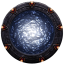
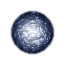
portal

diff --git a/b612/2021/index.html b/b612/2021/index.html
@@ -70,6 +70,7 @@
 <script src="GoPlanet.js"> </script>
 <script src="GoActor.js"> </script>
 <script src="GoLatern.js"> </script>
+<script src="GoPortal.js"> </script>
 <script src="Game.js"></script>
 <script src="NavMap.js"></script>
 <script src="GameObjectController.js"></script>
@@ -110,12 +111,14 @@ let time_multiplier = 1.0;
 
 var cam_back = new Camera(0);
 var cam_front = new Camera(0);
+var cam_player = new Camera(0.5);
+var camera = cam_front;
 var game = new Game();
 Game.currentGame = game;
 let cnt_frame = 0;
 
 let rose = undefined, retro = undefined;
-let prince, fox, sheep, box, scarf, bush, star, latern, frost;
+let prince, fox, sheep, box, scarf, bush, portal, star, latern, frost;
 
 /////////////////////////////////////////////////////////////////////////////////////////////////////////////////////////////////
 
@@ -315,7 +318,7 @@ function render(){
 
         //camera.opacity = 1.;
         if (player!==undefined){
-            let cam_target = getPlanet(player);
+            let cam_target = getTruePlanet(player);
             if (player.behaviour instanceof BeaJump){
                 cam_target = player;
             }
@@ -325,7 +328,7 @@ function render(){
         renderContext.camera = cam_back;
         GameObject.RenderAll(game.objects.background);
                 
-        renderContext.camera = cam_front;
+        renderContext.camera = camera;
         GameObject.RenderAll(game.objects.solid);        
 
         renderContext.EndScene();
@@ -389,12 +392,13 @@ function physics(dt){
         {
             let cam_target = player;
             if (player.behaviour instanceof BeaStand){
-                cam_target = player.behaviour.planet;
+                cam_target = getTruePlanet(player);
             }    
             if (player.behaviour instanceof BeaJump){
                 cam_target = player.behaviour.p2 || player.behaviour.p1;
             }    
-            //camera.setTarget(cam_target);
+            cam_player.setTarget(cam_target);
+            cam_player.Update();            
             cam_front.Update();
             cam_back.Update();
         }
@@ -573,6 +577,11 @@ function make_demo(){
     bush = new GoActor("bush");
     game.objects.solid.push(bush);
     bush.spawnAtPlanet(planets[planets.length-3],MathEx.randomAngle());
+
+    portal = new GoPortal();
+    game.objects.solid.push(portal);
+    portal.spawnAtPlanet(planets[0],0);
+    portal.effect = new EfBlink();
     
     // create actors
     prince = new GoActor("prince");    
@@ -649,9 +658,23 @@ function make_demo(){
     });
 
     player.addHandler(GameEvent.TOUCHDOWN, function(){
-        let rosePlanet = getTruePlanet(rose)
+        let rosePlanet = getTruePlanet(rose);        
         if (rosePlanet!==undefined && rosePlanet === getTruePlanet(player)){
             rose.jump();
+        }
+
+        let portalPlanet = getTruePlanet(portal);
+        if (portalPlanet!==undefined && portalPlanet === getTruePlanet(player)){
+            camera = cam_player;
+            console.log('camera on player');
+        }
+    });
+
+    player.addHandler(GameEvent.JUMP, function(){
+        let portalPlanet = getTruePlanet(portal);
+        if (portalPlanet!==undefined && portalPlanet === getTruePlanet(player)){
+            camera = cam_front;
+            console.log('camera on front');
         }
     });
 
@@ -685,7 +708,7 @@ function make_intro(){
     staratlas['prince'] = astar;
     atlas_name = "prince";
 
-    let portal = new GoActor("portal");
+    let portal = new GoPortal();
     game.objects.solid.push(portal);
     portal.spawnAtPlanet(p2,0);
     portal.effect = new EfBlink();

diff --git a/b612/2021/RendererWebGL.js b/b612/2021/RendererWebGL.js
@@ -295,12 +295,13 @@ class RendererWebGL {
         gl.enable(gl.BLEND)
         gl.useProgram(prog.prog);
 
-        const [camx,camy] = [this.camera.ox * pos._z, this.camera.oy * pos._z];
-        const [px,py] = [pos.x + camx, pos.y + camy];        
-        gl.uniform2f(prog.pos, px*this.cfx-1., 1.-py*this.cfy);
-        gl.uniform2f(prog.scale,tex.width*this.cfx*scl,tex.height*this.cfy*scl);
+        const [camx,camy] = [this.camera.ox * pos._z , this.camera.oy * pos._z];
+        const [px,py] = [pos.x  + camx, pos.y  + camy];
+        const cscale = this.cfx*this.camera.zoom;
+        gl.uniform2f(prog.pos, px*cscale-1., 1.-py*cscale);
+        gl.uniform2f(prog.scale,tex.width*cscale*scl,tex.height*cscale*scl);
         gl.uniform4f(prog.cmul,cmul[0],cmul[1],cmul[2],cmul[3]*this.camera.opacity);
-        gl.uniform4f(prog.cadd,cadd[0],cadd[1],cadd[2],cadd[3]);        
+        gl.uniform4fv(prog.cadd,cadd);
         //gl.uniform2f(prog.rot_bck, Math.cos(rot), Math.sin(rot));
         gl.uniform2f(prog.rot_bck, rot, rot);
 
@@ -334,11 +335,12 @@ class RendererWebGL {
 
         const tex = texs[0];
         const [camx,camy] = [this.camera.ox * pos._z, this.camera.oy * pos._z];
-        const [px,py] = [pos.x + camx, pos.y + camy];        
-        gl.uniform2f(prog.pos, px*this.cfx-1., 1.-py*this.cfy);
-        gl.uniform2f(prog.scale,tex.width*this.cfx*scl,tex.height*this.cfy*scl);
+        const [px,py] = [pos.x + camx, pos.y  + camy];
+        const cscale = this.cfx*this.camera.zoom;
+        gl.uniform2f(prog.pos, px*cscale-1., 1.-py*cscale);
+        gl.uniform2f(prog.scale,tex.width*cscale*scl,tex.height*cscale*scl);
         gl.uniform4f(prog.cmul,cmul[0],cmul[1],cmul[2],cmul[3]*this.camera.opacity);
-        gl.uniform4f(prog.cadd,cadd[0],cadd[1],cadd[2],cadd[3]);        
+        gl.uniform4fv(prog.cadd,cadd);
         //gl.uniform2f(prog.rot_bck, Math.cos(rot), Math.sin(rot));
         gl.uniform2f(prog.rot_bck, Math.cos(rots[0]), Math.sin(rots[0]));
         gl.uniform2f(prog.rot_lit, Math.cos(rots[1]), Math.sin(rots[1]));

diff --git a/b612/2021/GoPortal.js b/b612/2021/GoPortal.js
@@ -1,0 +1,39 @@
+class RenderPortal {
+    constructor(){
+        this.cmul = V4_SOLIDWHITE;
+        this.cadd = V4_TRANSBLACK;
+        this.blur = 0.;
+    }
+    Render(go){
+
+        if (go.turned){
+            let cf = Math.cos(perfmon.time*0.002);
+            cf = Math.pow(cf,50.);
+            renderContext.RenderQuad(
+                renderContext.texas["portal_on"],
+                {...go.globalPosition,_z: go.z_1},
+                0.7+this.cadd[1]*0.3,
+                go.globalRotation*0.5,
+                this.cmul,this.cadd,2.3,
+                BLEND_GLOW
+            );
+        }
+
+        renderContext.RenderQuad(
+            renderContext.texas["portal"],
+            {...go.globalPosition,_z: go.z_1},
+            0.7,
+            go.globalRotation,
+            this.cmul,this.cadd,this.blur,           
+            BLEND_NORMAL
+        );
+    }
+}
+
+class GoPortal extends GoActor {
+    constructor(){
+        super("portal");
+        this.renderer = new RenderPortal();        
+        this.turned = true;
+    }
+}

diff --git a/b612/2021/GoActor.js b/b612/2021/GoActor.js
@@ -56,8 +56,8 @@ class BeaStand {
         this.angle = angle;
         this.planet = planet;
 
-        planet.Schedule(GameEvent.TOUCHDOWN,{msg:"as_planet"});
-        actor.Schedule(GameEvent.TOUCHDOWN,{msg:"as_actor"});
+        planet.Schedule(GameEvent.TOUCHDOWN,{msg:"as_planet", who:actor});
+        actor.Schedule(GameEvent.TOUCHDOWN,{msg:"as_actor", who:actor});
     }
     Update(go){
         const planet = this.planet;

diff --git a/b612/2021/Assets.js b/b612/2021/Assets.js
@@ -20,4 +20,5 @@ var txr2d = {
     latern_lit:   _createTexture("latern_lit.png"),
     frost:   _createTexture("frost.png"),
     portal: _createTexture("portal_off.png"),
+    portal_on: _createTexture("portal.png"),
 }

diff --git a/b612/2021/Camera.js b/b612/2021/Camera.js
@@ -9,6 +9,7 @@ class Camera {
         this.cf = 0;
         this.opacity = 1.0;
         this.mixcoef = mixcoef;
+        this.zoom = 1.0;
     }
 
     Update(){
